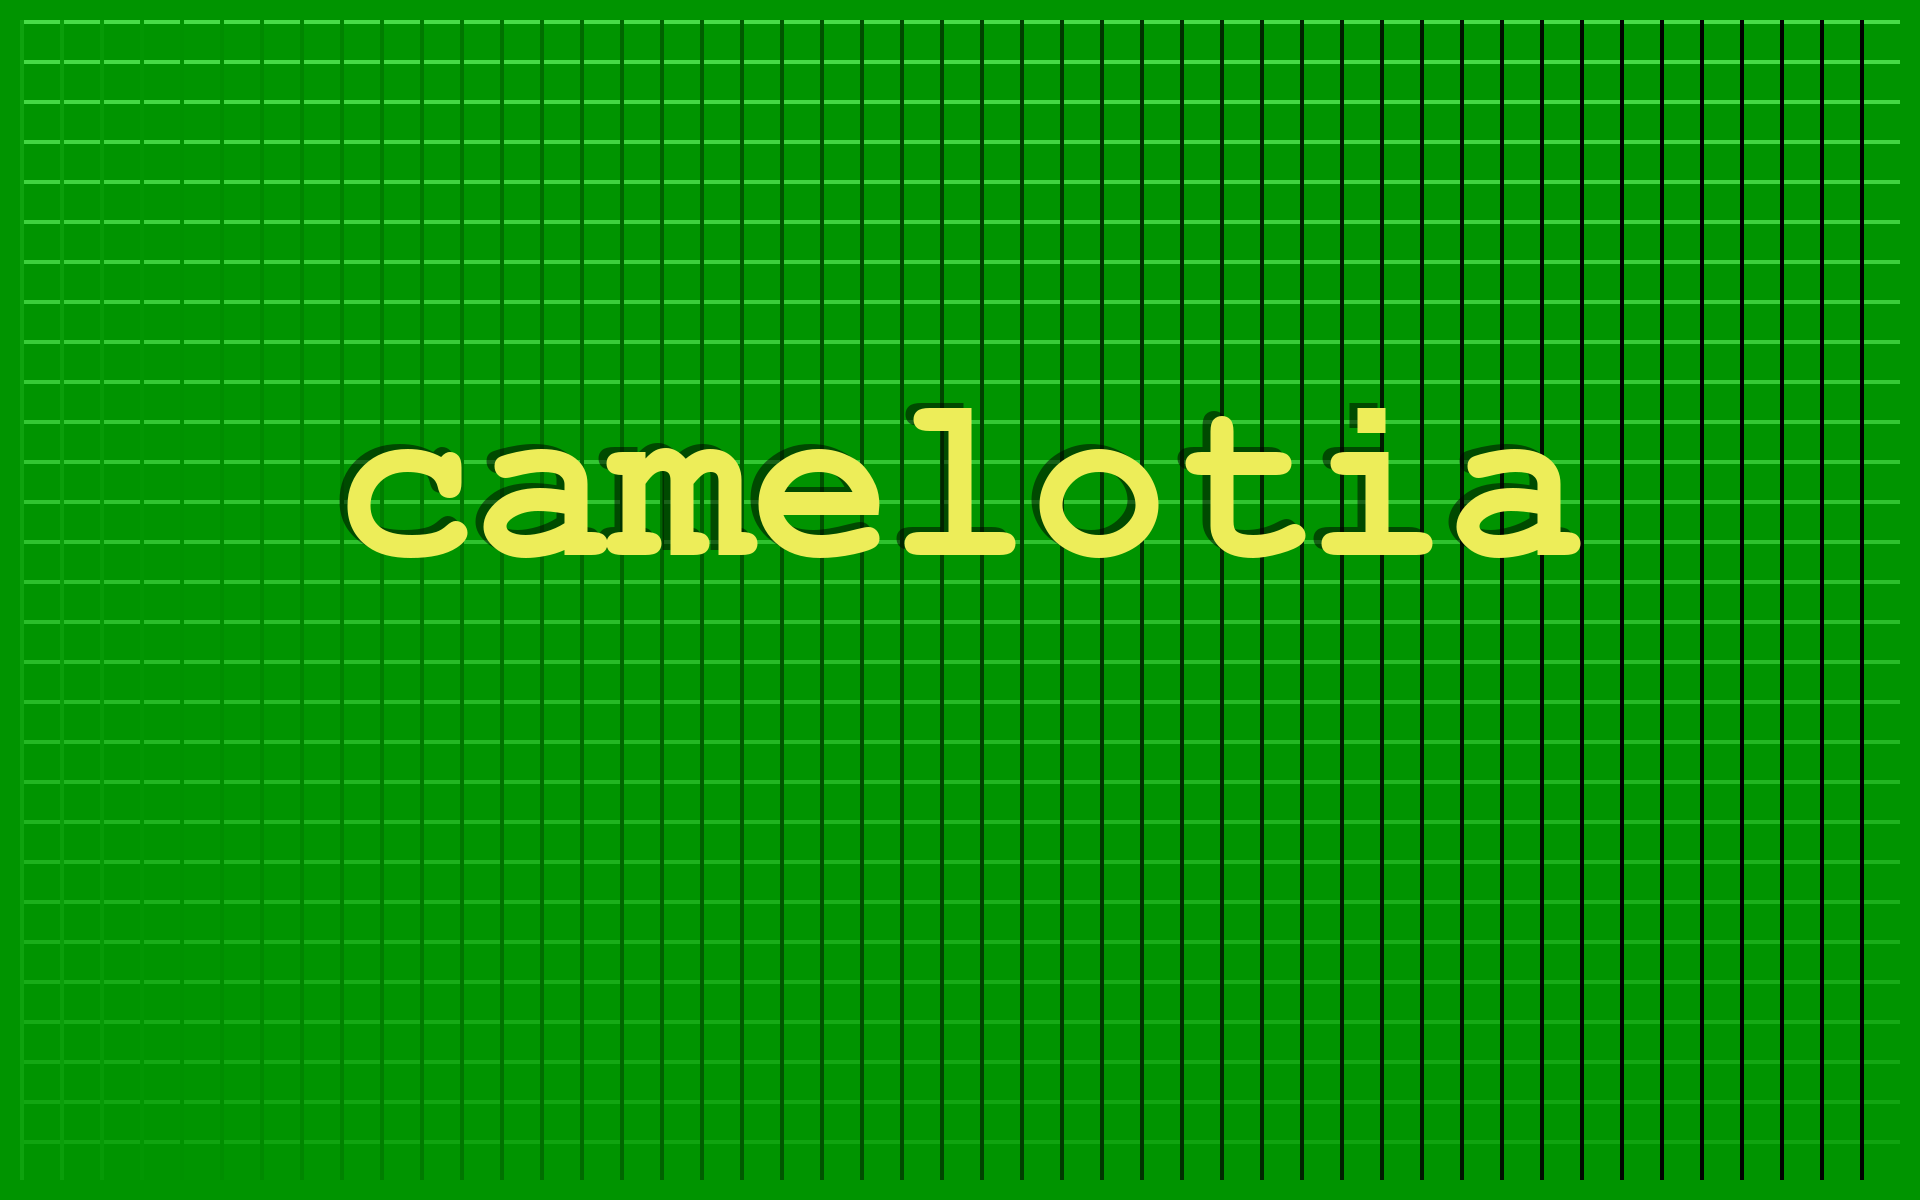
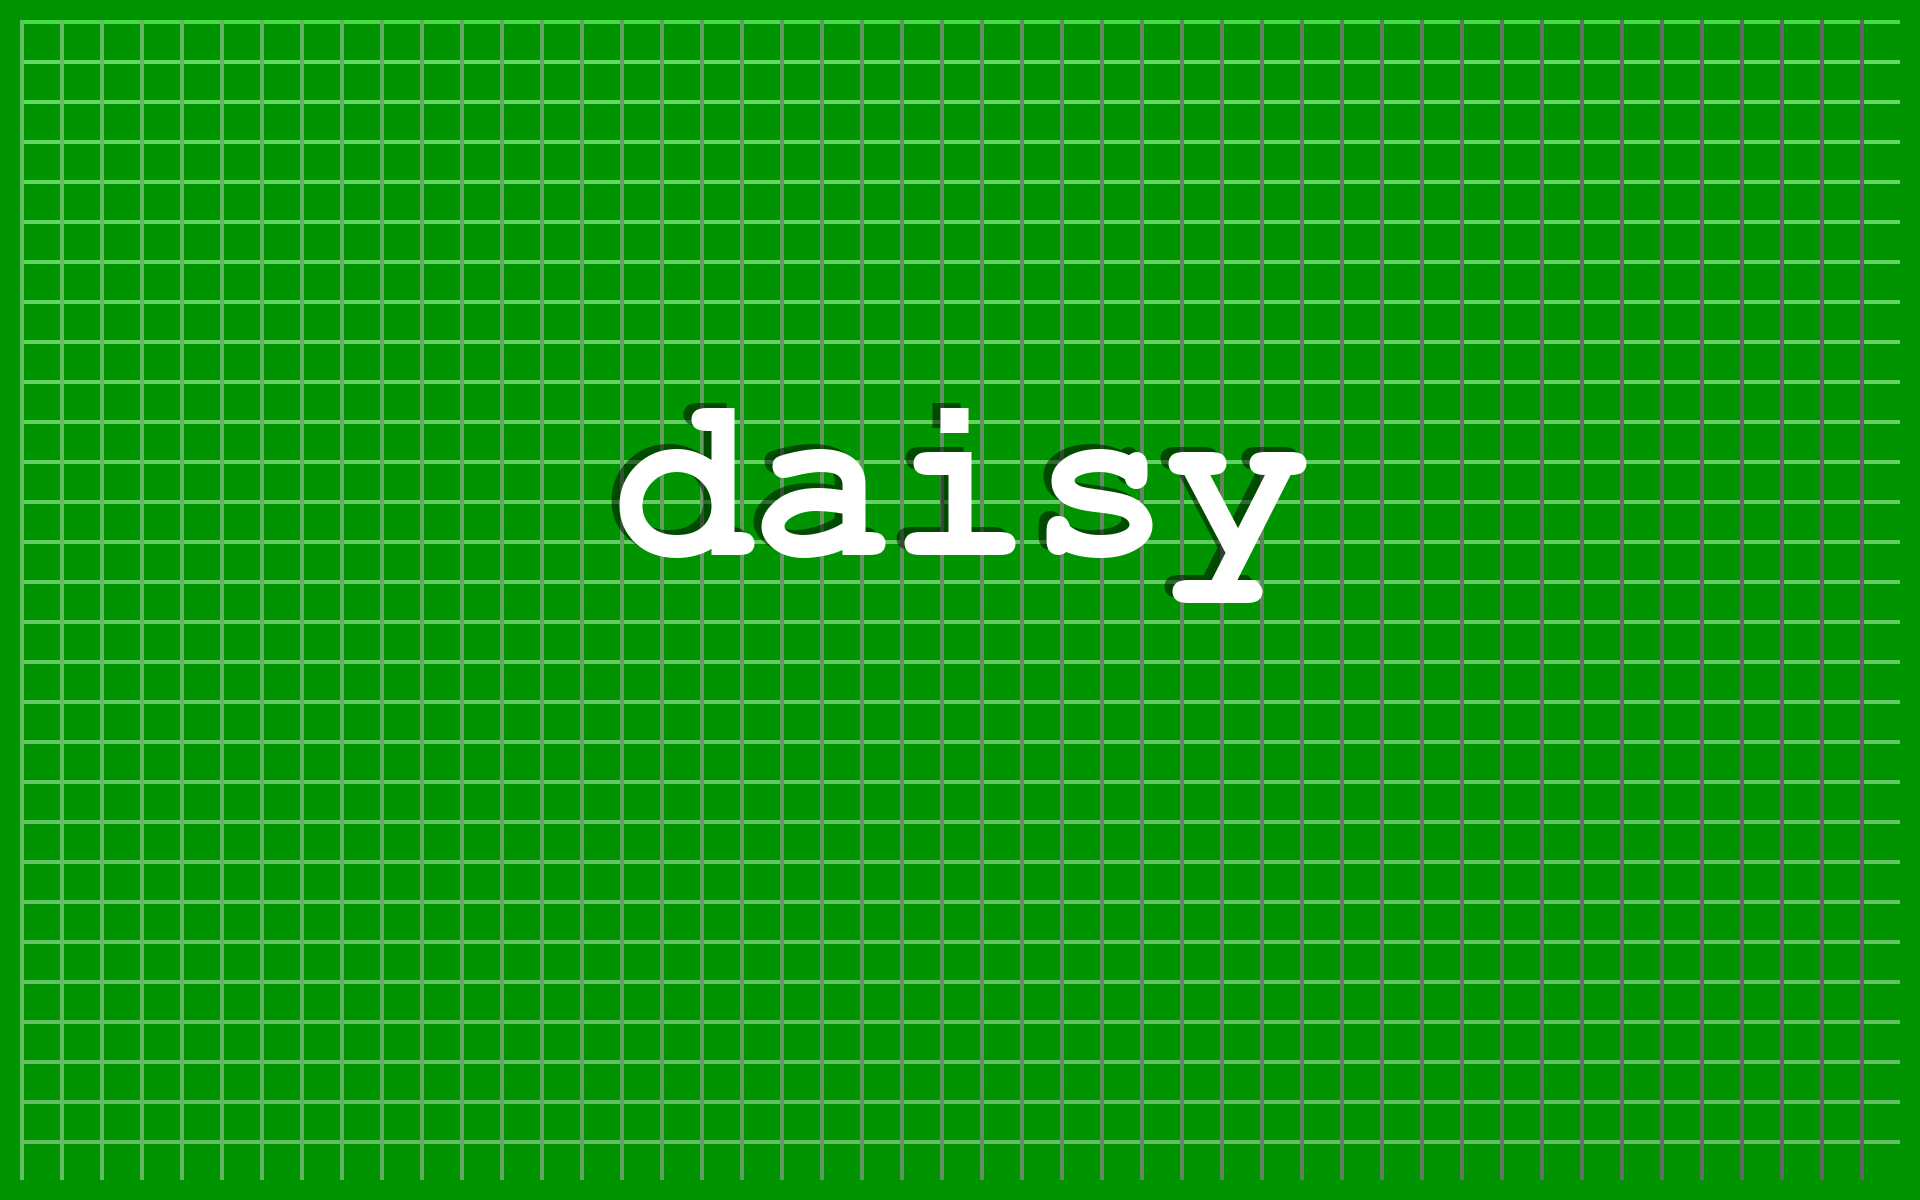
Implement config. Settable upper lower limits on colours.

Changed region(s): [[0.0, 0.0308, 1.0, 0.9867]]

diff --git a/lib/general/colour.js b/lib/general/colour.js
@@ -5,6 +5,9 @@ export class Colour {
     this.b = b
     this.a = a
 
+    this.upperLimit = 255
+    this.lowerLimit = 255
+
     this.rLock = false
     this.gLock = false
     this.bLock = false
@@ -18,25 +21,25 @@ export class Colour {
   }
 
   lighten(delta = 1) {
-    if (!this.rLock) this.r = Math.min(this.r + delta, 255)
-    if (!this.gLock) this.g = Math.min(this.g + delta, 255)
-    if (!this.bLock) this.b = Math.min(this.b + delta, 255)
+    if (!this.rLock) this.r = Math.min(this.r + delta, this.upperLimit)
+    if (!this.gLock) this.g = Math.min(this.g + delta, this.upperLimit)
+    if (!this.bLock) this.b = Math.min(this.b + delta, this.upperLimit)
     this.updateColor()
     return this
   }
 
   darken(delta = 1) {
-    if (!this.rLock) this.r = Math.max(this.r - delta, 0)
-    if (!this.gLock) this.g = Math.max(this.g - delta, 0)
-    if (!this.bLock) this.b = Math.max(this.b - delta, 0)
+    if (!this.rLock) this.r = Math.max(this.r - delta, this.lowerLimit)
+    if (!this.gLock) this.g = Math.max(this.g - delta, this.lowerLimit)
+    if (!this.bLock) this.b = Math.max(this.b - delta, this.lowerLimit)
     this.updateColor()
     return this
   }
 
   invert(includeAlpha = false) {
-    this.r = 255 - this.r
-    this.g = 255 - this.g
-    this.b = 255 - this.b
+    this.r = this.upperLimit - this.r
+    this.g = this.upperLimit - this.g
+    this.b = this.upperLimit - this.b
     if (includeAlpha) this.a = 1 - this.a
     this.updateColor()
     return this

diff --git a/lib/wallpaper/stripes.js b/lib/wallpaper/stripes.js
@@ -1,17 +1,21 @@
-export const drawStripes = (g, palette, date) => {
-  let day = date.getDate()
+export const drawStripes = (g, palette, date, config) => {
+  const day = date.getDate()
 
-  if (day % 2 === 0) {
-    for (let h = day; h < g.height - day; h += day * 2) {
-      g.drawHStripe(palette.grid, h, g.width - day * 2, 4, day)
-      palette.grid.lighten(-2)
+  if (config.horizontalStripes) {
+    if (day % 2 === 0) {
+      for (let h = day; h < g.height - day; h += day * 2) {
+        g.drawHStripe(palette.grid, h, g.width - day * 2, 4, day)
+        palette.grid.darken(1)
+      }
     }
   }
 
-  if (day % 4 === 0) {
-    for (let h = day; h < g.width - day; h += day * 2) {
-      g.drawVStripe(palette.grid, h, g.height - day * 2, 4, day)
-      palette.grid.lighten(-4)
+  if (config.verticalStripes) {
+    if (day % 4 === 0) {
+      for (let h = day; h < g.width - day; h += day * 2) {
+        g.drawVStripe(palette.grid, h, g.height - day * 2, 4, day)
+        palette.grid.darken(2)
+      }
     }
   }
 }

diff --git a/lib/wallpaper/palette.js b/lib/wallpaper/palette.js
@@ -18,7 +18,11 @@ export const generatePalette = (date) => {
     palette.text.darken(2)
   }
 
-  palette.grid = palette.background.clone().lighten(12 * day)
+  const gridColour = palette.background.clone().lighten(12 * day)
+  gridColour.lowerLimit = 99
+  gridColour.upperLimit = 213
+  gridColour.updateColor()
+  palette.grid = gridColour
 
   return palette
 }

diff --git a/lib/wallpaper/wallpaper.js b/lib/wallpaper/wallpaper.js
@@ -19,7 +19,9 @@ export const generateWallpaper = (log, config, date) => {
   logObject(log, palette, (c) => c.getColor())
 
   generateBackground(g, palette, date)
-  drawStripes(g, palette, date)
-  drawText(g, palette, date)
+  drawStripes(g, palette, date, config)
+  if (config.text) {
+    drawText(g, palette, date)
+  }
   savePNG(canvas, config.filename)
 }

diff --git a/config.js b/config.js
@@ -3,4 +3,7 @@ export const config = {
   width: 1920,
   height: 1200,
   filename: 'out\\test.png',
+  verticalStripes: true,
+  horizontalStripes: true,
+  text: true,
 }
